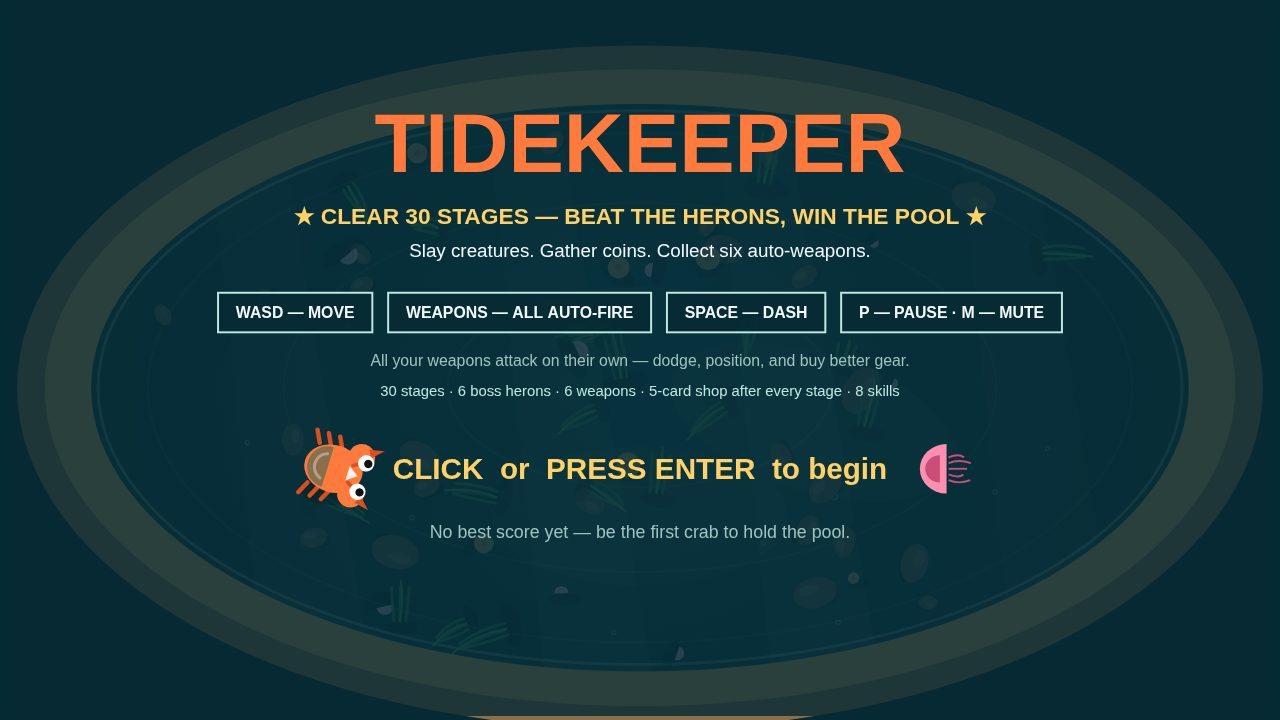
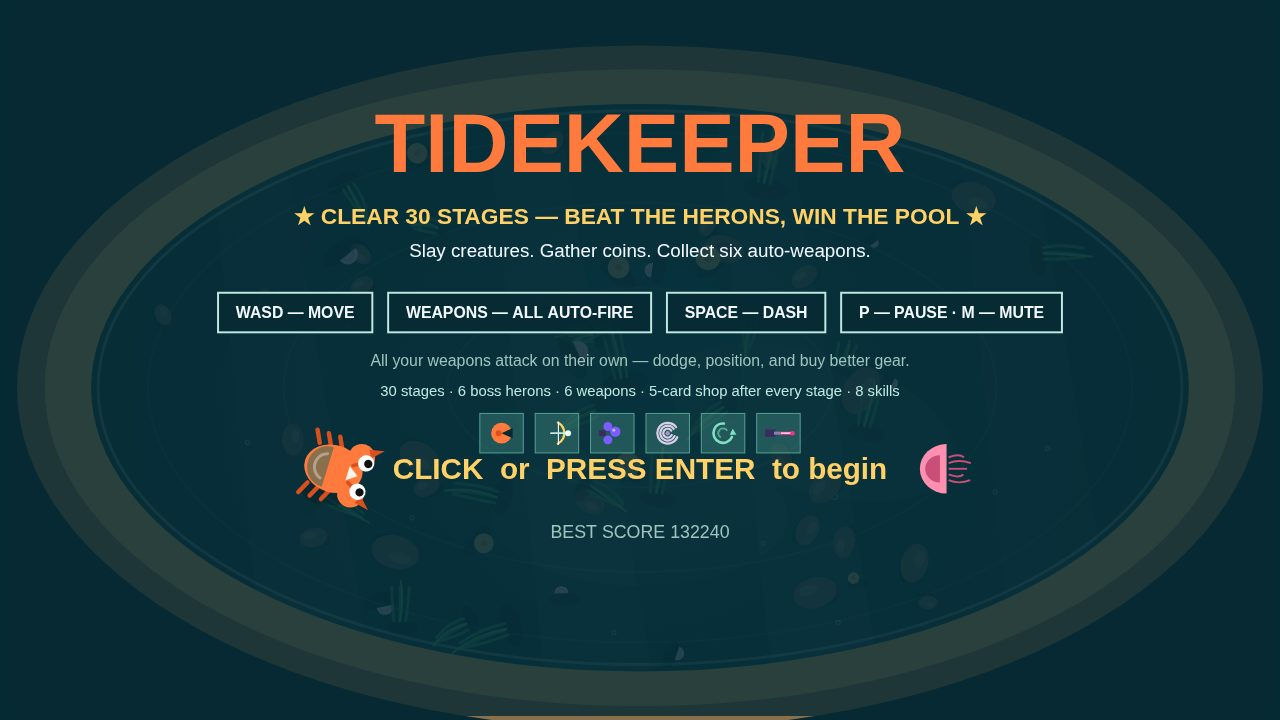
TIDEKEEPER v7: minimap + boss dive telegraphs + boss-fight cover + later stage-clear + S-grade end

Changed region(s): [[0.375, 0.55, 0.625, 0.6417], [0.3438, 0.7333, 0.6562, 0.7639]]

diff --git a/game/src/render.js b/game/src/render.js
@@ -442,6 +442,46 @@ export function createRenderer(canvas) {
     }
   }
 
+  // Minimap (bottom-right, above the dash panel): the whole pool in one
+  // glance — crab white, creatures coral, elite gold, boss orange with a
+  // pulsing ring. The top entries all show the full game state in one frame;
+  // the minimap does that for TIDEKEEPER. Circle centre (1190, 570), r 62;
+  // the pool ellipse inside keeps the pool's own aspect (556:288).
+  function drawMinimap(state, t) {
+    const mx = 1190, my = 570, mr = 62;
+    ctx.fillStyle = 'rgba(6,42,51,0.78)';
+    ctx.beginPath(); ctx.arc(mx, my, mr, 0, Math.PI * 2); ctx.fill();
+    ctx.strokeStyle = 'rgba(255,209,102,0.5)'; ctx.lineWidth = 1.5;
+    ctx.beginPath(); ctx.arc(mx, my, mr, 0, Math.PI * 2); ctx.stroke();
+    ctx.fillStyle = 'rgba(14,85,102,0.9)';
+    ctx.beginPath(); ctx.ellipse(mx, my, 52, 27, 0, 0, Math.PI * 2); ctx.fill();
+    const dot = (wx, wy) => [mx + ((wx - POOL.cx) / POOL.rx) * 52, my + ((wy - POOL.cy) / POOL.ry) * 27];
+    for (const e of state.enemies) {
+      const [dx, dy] = dot(e.x, e.y);
+      if (e.boss) {
+        const pulse = 0.5 + 0.5 * Math.sin(t * 5);
+        ctx.strokeStyle = `rgba(255,122,60,${0.5 + 0.5 * pulse})`; ctx.lineWidth = 2;
+        ctx.beginPath(); ctx.arc(dx, dy, 7 + pulse * 2, 0, Math.PI * 2); ctx.stroke();
+        ctx.fillStyle = '#ff7a3c';
+        ctx.beginPath(); ctx.arc(dx, dy, 5, 0, Math.PI * 2); ctx.fill();
+      } else if (e.elite) {
+        ctx.fillStyle = '#ffd166';
+        ctx.beginPath(); ctx.arc(dx, dy, 3, 0, Math.PI * 2); ctx.fill();
+      } else {
+        ctx.fillStyle = '#ff5d73';
+        ctx.beginPath(); ctx.arc(dx, dy, 2, 0, Math.PI * 2); ctx.fill();
+      }
+    }
+    const [cx, cy] = dot(state.player.x, state.player.y);
+    ctx.fillStyle = '#062a33';
+    ctx.beginPath(); ctx.arc(cx, cy, 5, 0, Math.PI * 2); ctx.fill();
+    ctx.fillStyle = '#fff';
+    ctx.beginPath(); ctx.arc(cx, cy, 3.5, 0, Math.PI * 2); ctx.fill();
+    ctx.fillStyle = PAL.dim; ctx.font = 'bold 10px sans-serif'; ctx.textAlign = 'center';
+    ctx.fillText('MAP', mx, my + mr + 14);
+    ctx.textAlign = 'left';
+  }
+
   function drawHud(state, t) {
     // HUD layout (VIEW 1280x720) — every element owns one region, none overlap:
     //   top bar y 14–94: HP panel (left, now taller: HP + shell + arsenal row,
@@ -450,6 +490,7 @@ export function createRenderer(canvas) {
     //   banner zone y 146–186: one banner at a time, dark backdrop
     //   playfield y 200–610: damage numbers live here and nowhere else (see particles.js)
     //   hint pill y 564–608, centred, play phase only, never while a banner shows
+    //   minimap: circle centre (1190, 570) r 62, above the dash panel
     //   bottom bar y 620–704: skills left, cooldowns right, controls strip centre
     const p = state.player;
     ctx.textAlign = 'left'; ctx.textBaseline = 'alphabetic';
@@ -542,6 +583,8 @@ export function createRenderer(canvas) {
     ctx.fillStyle = 'rgba(6,42,51,0.75)'; ctx.fillRect(VIEW_W - 268, VIEW_H - 60, 250, 44);
     ctx.fillStyle = PAL.text; ctx.font = 'bold 15px sans-serif';
     ctx.fillText(p.dashCd <= 0 ? 'DASH READY  [Space]' : `DASH ${p.dashCd.toFixed(1)}s`, VIEW_W - 28, VIEW_H - 32);
+    // Minimap: the whole pool in one glance, bottom-right above the dash panel.
+    drawMinimap(state, t);
     // Wave / elite banner in its own zone (y 146–186) with a dark backdrop and a
     // gold frame, so damage numbers and the heron never cross the text.
     if (state.bannerT > 0) {
@@ -610,6 +653,14 @@ export function createRenderer(canvas) {
     // Scope line: what the game contains, in numbers (the top titles all list theirs).
     ctx.fillStyle = PAL.foam; ctx.font = '15px sans-serif';
     ctx.fillText('30 stages · 6 boss herons · 6 weapons · 5-card shop after every stage · 8 skills', VIEW_W / 2, 396);
+    // The arsenal at a glance: all six weapons as drawn icons under the scope
+    // line, so the title shows the game's depth before a single stage is played.
+    for (let i = 0; i < WEAPON_ORDER.length; i += 1) {
+      const bx = VIEW_W / 2 - 162 + i * 56;
+      ctx.fillStyle = 'rgba(127,224,195,0.22)'; ctx.fillRect(bx, 414, 44, 40);
+      ctx.strokeStyle = 'rgba(127,224,195,0.6)'; ctx.lineWidth = 1; ctx.strokeRect(bx, 414, 44, 40);
+      drawWeaponIcon(ctx, WEAPON_ORDER[i], bx + 22, 434, 30, true);
+    }
     const blink = state.shotMode || Math.floor(performance.now() / 500) % 2 === 0;
     if (blink) {
       ctx.fillStyle = PAL.gold; ctx.font = 'bold 30px sans-serif';
@@ -882,6 +933,29 @@ export function createRenderer(canvas) {
       const lerp = (prev, cur) => prev + (cur - prev) * a;
       ctx.setTransform(s, 0, 0, s, oxd + fx.shakeX * s, oyd + fx.shakeY * s);
       drawPool(state, t);
+      // Dive telegraph: a swooper about to dive (circle state, dive under
+      // 0.6 s away) shows its dive path — a dashed red line toward the crab
+      // and a pulsing ring on the crab, plus a "!" over the bird. The dive
+      // tracks the crab, so the ring sits on the crab, not on a fixed spot.
+      for (const e of state.enemies) {
+        if ((e.type === 'gull' || e.type.endsWith('heron')) && e.state === 'circle' && e.diveT < 0.6) {
+          const ix = lerp(e.px ?? e.x, e.x), iy = lerp(e.py ?? e.y, e.y);
+          const jx = lerp(state.player.px ?? state.player.x, state.player.x);
+          const jy = lerp(state.player.py ?? state.player.y, state.player.y);
+          const pulse = 0.5 + 0.5 * Math.sin(t * 10);
+          ctx.save();
+          ctx.strokeStyle = `rgba(255,93,115,${0.4 + 0.3 * pulse})`;
+          ctx.lineWidth = 2; ctx.setLineDash([8, 8]);
+          ctx.beginPath(); ctx.moveTo(ix, iy); ctx.lineTo(jx, jy); ctx.stroke();
+          ctx.setLineDash([]);
+          ctx.strokeStyle = `rgba(255,93,115,${0.55 + 0.4 * pulse})`;
+          ctx.lineWidth = 2.5;
+          ctx.beginPath(); ctx.arc(jx, jy, 44 + pulse * 6, 0, Math.PI * 2); ctx.stroke();
+          ctx.fillStyle = '#ff5d73'; ctx.font = 'bold 24px sans-serif'; ctx.textAlign = 'center';
+          ctx.fillText('!', ix, iy - e.r - 10);
+          ctx.restore();
+        }
+      }
       // Ink pools under everything that swims.
       for (const ink of state.inks) {
         ctx.fillStyle = `rgba(123,92,255,${Math.min(0.55, ink.life / 2)})`;

diff --git a/game/src/shots.js b/game/src/shots.js
@@ -126,8 +126,18 @@ export function stageShot(shot, seed, fx, audio) {
           const a = 0.6 + i * 2.0;
           g.x = Math.min(1160, Math.max(120, s.player.x + Math.cos(a) * 220));
           g.y = Math.min(600, Math.max(170, s.player.y + Math.sin(a) * 150));
-          g.state = 'circle'; g.diveT = 0.8;
+          // diveT under 0.6 s: their dive telegraphs (dashed line + ring on
+          // the crab) are visible in the frame — the flock is about to burst.
+          g.state = 'circle'; g.diveT = 0.4;
         }
+        // The frame shows the whole arsenal firing at once: the laser beam and
+        // the spin ring are mid-blast when the frame is taken (the staged state
+        // is static, so the timers hold until the screenshot).
+        if (s.weapons.laser > 0) {
+          s.player.laser = 0.15; s.player.laserLen = 420;
+          s.player.laserBeams = s.weapons.laser >= 5 ? 2 : 1;
+        }
+        if (s.weapons.spin > 0) s.player.spin = 0.15;
         s.banner = `${b.name} — DRIVE IT OFF!`;
         s.bannerT = 2.5;
         return s;
@@ -140,32 +150,34 @@ export function stageShot(shot, seed, fx, audio) {
     return s;
   }
   if (shot === 'stageclear') {
-    // The stage-clear menu after stage 3: five cards with coin prices, the
-    // reroll and NEXT buttons, and enough coins (~150) that some cards are
-    // buyable and some are not — the economy reads at a glance. Prefer a seed
-    // whose hand includes a weapon card (the "NEW WEAPON" draw is the
-    // exciting one); the crab sits bottom-left so the menu stays centred, and
-    // the leftover damage numbers are cleared so they do not show through the
-    // dim over the menu.
-    let fallback = null;
-    for (let trySeed = seed; trySeed < seed + 6; trySeed += 1) {
-      const s = createStateFromSeed(trySeed); s.phase = 'play';
-      runUntil(s, (st) => st.phase === 'stageclear' && st.stage === 3, 30000, fx, audio);
-      if (s.phase === 'stageclear' && s.stage === 3 && s.hand && s.hand.length >= 3) {
-        if (!fallback) fallback = s;
-        if (s.hand.some((c) => c.kind === 'weapon')) {
-          s.player.x = 200; s.player.y = 620; s.player.angle = 0;
-          s.coins = Math.max(s.coins, 150); // some cards affordable, some not — the economy reads at a glance
-          fx.clear();
-          return s;
+    // The stage-clear menu after a LATER stage (15 first, then 10, then 3):
+    // a fuller build reads in the YOUR BUILD row, and the menu shows real
+    // mid-game choices. Enough coins (~150) that some cards are buyable and
+    // some are not — the economy reads at a glance. Prefer a seed whose hand
+    // includes a weapon card (the "NEW WEAPON" draw is the exciting one);
+    // the crab sits bottom-left so the menu stays centred, and the leftover
+    // damage numbers are cleared so they do not show through the dim.
+    for (const wantStage of [15, 10, 3]) {
+      let fallback = null;
+      for (let trySeed = seed; trySeed < seed + 6; trySeed += 1) {
+        const s = createStateFromSeed(trySeed); s.phase = 'play';
+        runUntil(s, (st) => st.phase === 'stageclear' && st.stage === wantStage, 60000, fx, audio);
+        if (s.phase === 'stageclear' && s.stage === wantStage && s.hand && s.hand.length >= 3) {
+          if (!fallback) fallback = s;
+          if (s.hand.some((c) => c.kind === 'weapon')) {
+            s.player.x = 200; s.player.y = 620; s.player.angle = 0;
+            s.coins = Math.max(s.coins, 150); // some cards affordable, some not — the economy reads at a glance
+            fx.clear();
+            return s;
+          }
         }
       }
-    }
-    if (fallback) {
-      fallback.player.x = 200; fallback.player.y = 620; fallback.player.angle = 0;
-      fallback.coins = Math.max(fallback.coins, 150);
-      fx.clear();
-      return fallback;
+      if (fallback) {
+        fallback.player.x = 200; fallback.player.y = 620; fallback.player.angle = 0;
+        fallback.coins = Math.max(fallback.coins, 150);
+        fx.clear();
+        return fallback;
+      }
     }
     // Fallback: any stage-clear screen will do.
     const s = createStateFromSeed(seed); s.phase = 'play';
@@ -176,12 +188,19 @@ export function stageShot(shot, seed, fx, audio) {
     return s;
   }
   if (shot === 'end') {
-    // Try seeds until the autopilot clears all 30 stages; a real victory screen.
+    // Try seeds until the autopilot clears all 30 stages; prefer a GRADE S
+    // win (60+ HP left) — the strongest victory screen. Fall back to the
+    // best win found (highest HP), then to a real game-over screen.
+    let bestWin = null;
     for (let trySeed = seed; trySeed < seed + 10; trySeed += 1) {
       const s = createStateFromSeed(trySeed); s.phase = 'play';
       runUntil(s, (st) => st.phase === 'over', 120000, fx, audio);
-      if (s.phase === 'over' && s.result === 'won') { fx.clear(); return s; }
+      if (s.phase === 'over' && s.result === 'won') {
+        if (s.player.hp >= 60) { fx.clear(); return s; }
+        if (!bestWin || s.player.hp > bestWin.player.hp) bestWin = s;
+      }
     }
+    if (bestWin) { fx.clear(); return bestWin; }
     // Fallback: the autopilot fell — a real game-over screen is still a complete loop.
     const s = createStateFromSeed(seed); s.phase = 'play';
     runUntil(s, (st) => st.phase === 'over', 120000, fx, audio);
